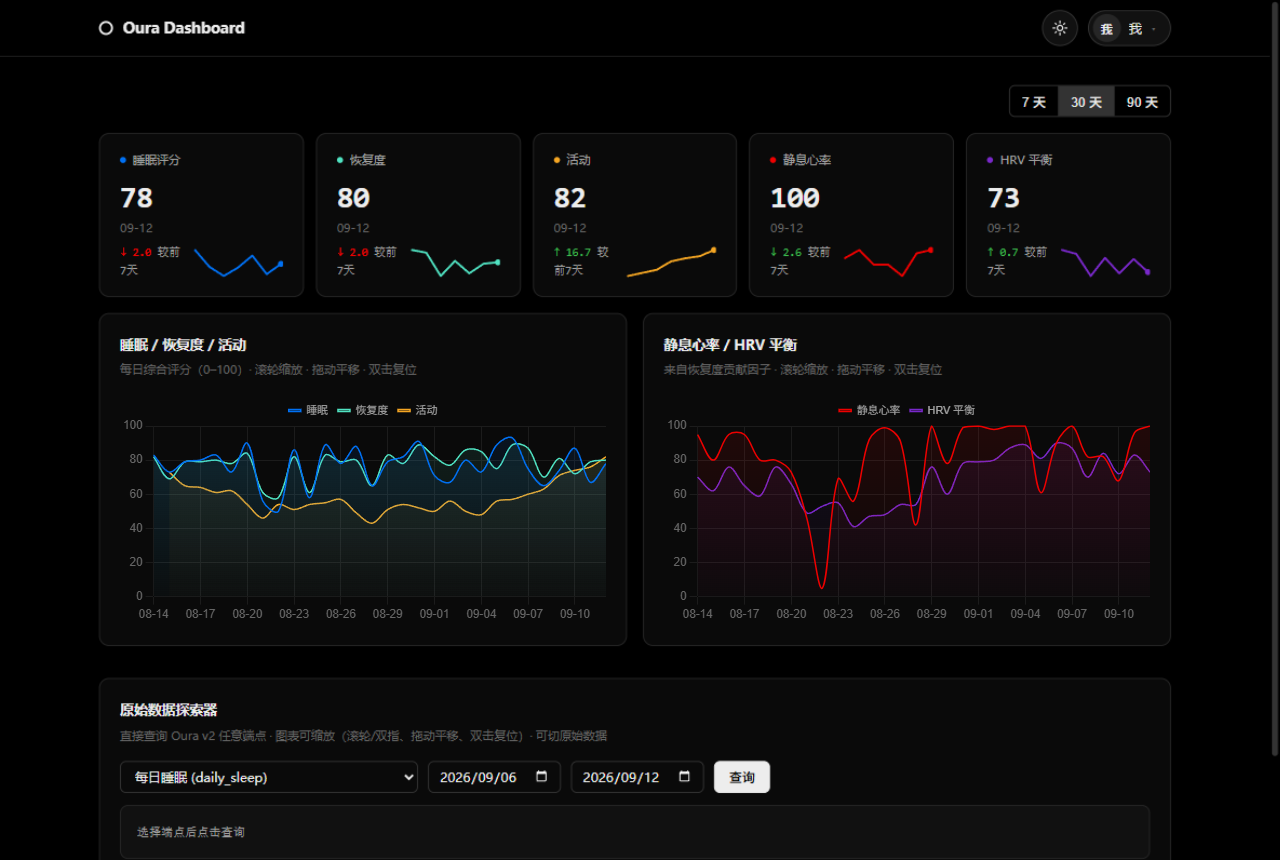
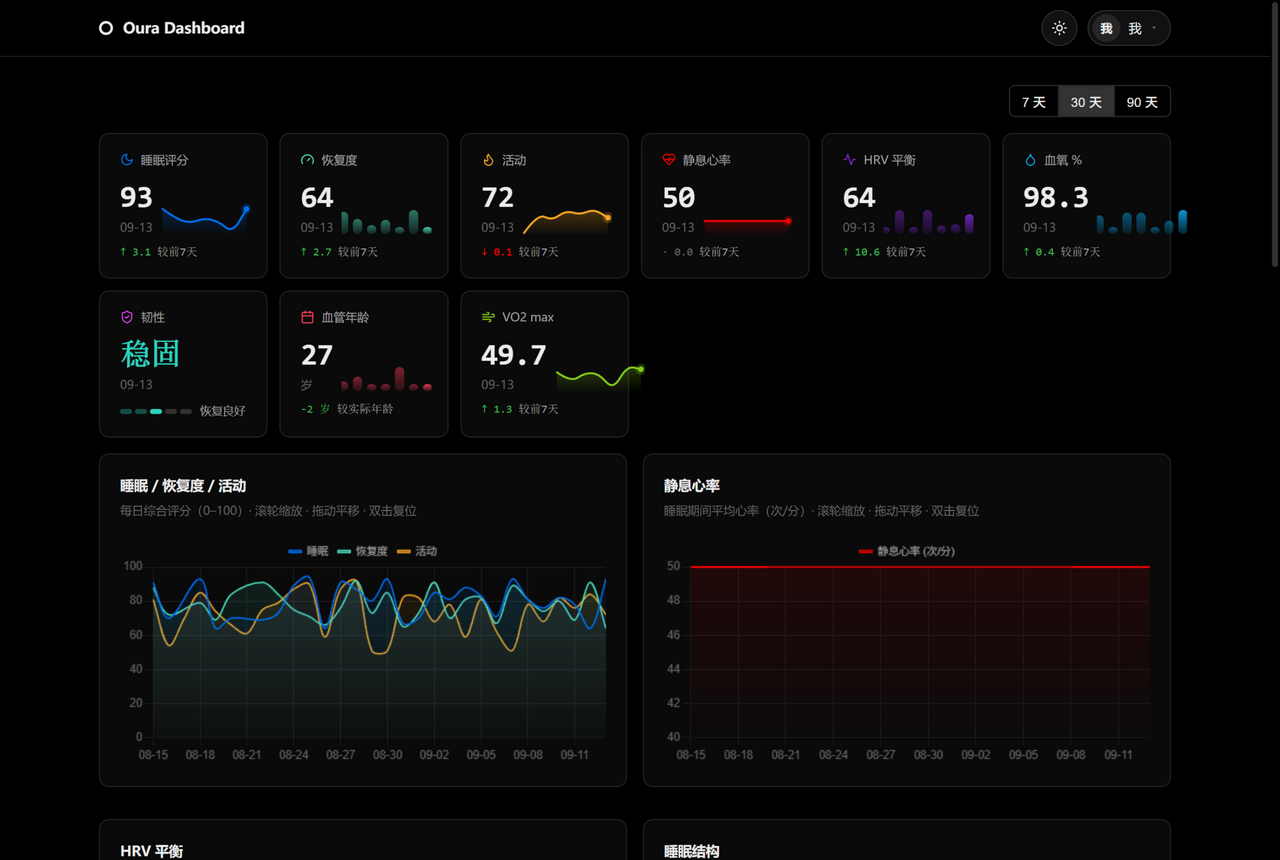
Docs: refresh README with new dashboard screenshots and feature tour
- new screenshots: desktop dark/light with 9 metric cards + dual-style
  sparklines, close-up of sleep structure/hypnogram/stress charts, mobile home
- add 看板一览 section: metric cards, per-chart interaction table, mobile notes
- summary API row documents all merged fields + profile.age
- FAQ row for the spo2/stress/heart_health re-auth requirement

diff --git a/README.md b/README.md
@@ -19,21 +19,45 @@
 
 ---
 
-| 深色 · 桌面 | 浅色 · 桌面 | 移动端 |
-| --- | --- | --- |
-| ![桌面深色](docs/screenshot-desktop-dark.png) | ![桌面浅色](docs/screenshot-desktop-light.png) | ![移动端](docs/screenshot-mobile.png) |
+| 深色 · 桌面 | 浅色 · 桌面 |
+| --- | --- |
+| ![桌面深色](docs/screenshot-desktop-dark.png) | ![桌面浅色](docs/screenshot-desktop-light.png) |
+| ![睡眠图表](docs/screenshot-charts-dark.png) | ![移动端](docs/screenshot-mobile.png) |
+| *睡眠结构 · 眠动图 · 压力与恢复* | *移动端 · 圆环 + 指标卡* |
 
 ## ✨ 功能
 
 - **多用户 OAuth2 接入** —— 每个用户通过授权链接接入，数据按 Oura 用户 id 隔离；token 自动刷新（Oura refresh_token 轮换也会正确落库）
 - **数据读取 API** —— 代理 Oura v2 全部 18 个数据端点，带 KV 缓存、分页、限流透传
-- **数据看板** —— 深色/浅色双主题；桌面端 9 张指标卡（评分/静息心率/HRV/血氧/韧性/血管年龄/VO2 max，迷你趋势线 + 环比箭头）+ 交互式图表（缩放/平移/十字准线）：综合评分、静息心率、HRV、**睡眠结构堆叠图（点击切换眠动图）、5 分钟眠动图、压力/恢复双向柱、睡眠节奏窗口图**、最近锻炼列表；移动端为原生 App 式交互（圆形指标环、指标卡、圆角柱状图、底部导航、骨架屏）
-- **MCP 服务器** —— 无状态 Streamable HTTP，4 个工具（`list_users` / `get_today_overview` / `get_daily_summary` / `get_oura_data`），支持按 email / 备注名定位用户；summary 工具附带睡眠结构/压力/血氧/韧性/血管年龄/VO2 max 等扩展字段
+- **数据看板** —— 深色/浅色双主题、移动端自适应，详见下方[看板一览](#-看板一览)
+- **MCP 服务器** —— 无状态 Streamable HTTP，4 个工具（`list_users` / `get_today_overview` / `get_daily_summary` / `get_oura_data`），支持按 email / 备注名定位用户；summary 工具附带睡眠结构、眠动图、压力、血氧、韧性、血管年龄、VO2 max 等扩展字段
 - **权限隔离** —— 每个用户可生成独立数据 Key，只能查询自己的数据
 - **定时任务** —— 每小时自动保活 token 并预取昨日+今日概览，看板秒开
 - **Webhook**（可选）—— 接收 Oura 数据更新推送（HMAC-SHA256 校验）
 
 > **2026-09 起 Oura 调整了 OAuth scope**：血氧为 `spo2`（原 `spo2Daily` 失效），韧性需要 `stress`，心血管年龄需要 `heart_health`。本仓库默认 scope 已更新；**此前接入的用户需要重新走一次授权**才能点亮这三类新数据，未重新授权时看板对应卡片显示「—」，其余功能不受影响。
+
+## 📊 看板一览
+
+**指标卡（9 张）**：睡眠评分 · 恢复度 · 活动 · 静息心率 · HRV 平衡 · 血氧 · 韧性 · 血管年龄 · VO2 max
+每张卡带专属图标、7 天迷你趋势（趋势型用折线+渐变面积，评分型用圆头渐变柱）与「较前 7 天」环比箭头；韧性以 5 段等级条展示当前等级（有限→卓越），血管年龄直接对比实际年龄。
+
+**交互式图表**（滚轮/双指缩放 · 拖动平移 · 双击复位 · 十字准线）：
+
+| 图表 | 看什么 | 特色交互 |
+| --- | --- | --- |
+| 睡眠 / 恢复度 / 活动 | 三大综合评分走势 | 多序列同图对比 |
+| 静息心率 | 睡眠期间平均心率（与 Oura App 口径一致） | — |
+| HRV 平衡 | 恢复度贡献因子 | — |
+| 睡眠结构 | 深睡 / REM / 浅睡 / 清醒时长堆叠 | **点击柱子切换下方眠动图到那一晚** |
+| 眠动图 | 单晚 5 分钟分辨率睡眠分期瀑布图 | 入睡/醒来、总睡眠、效率、平均 HRV 摘要行 |
+| 压力与恢复 | 高压力（上）vs 恢复（下）时长 | tooltip 带当日总结（已恢复/正常/高压日） |
+| 睡眠节奏 | 每晚入睡→醒来窗口 | 正午→正午时间轴，一眼看出作息规律 |
+| 最近锻炼 | 类型 / 强度 / 时长 / 消耗 / 距离 | 强度圆点着色 |
+
+移动端为原生 App 式交互：横向滚动的 9 个圆形指标环、可展开的指标卡（含等级分布、彩色柱状趋势）、底部三栏导航（摘要 / 趋势 / 探索）、骨架屏。
+
+另有**原始数据探索器**：直接查询 Oura v2 任意端点，自动识别数值字段绘图，可切原始 JSON。
 
 ## 🚀 快速开始
 
@@ -152,7 +176,7 @@ claude mcp add --transport http oura https://oura-service.<你的子域>.workers
 | --- | --- | --- |
 | GET | `/api/users` | 已接入用户列表 |
 | POST | `/api/sync/:userId?days=30` | 立即拉取近 N 天概览数据入缓存 |
-| GET | `/api/data/:userId/summary?days=30` | 聚合的每日睡眠/恢复度/活动/静息心率（睡眠期间平均 BPM）/HRV |
+| GET | `/api/data/:userId/summary?days=30` | 聚合每日概览：评分/静息心率/HRV + 睡眠结构（deep/rem/light/awake 秒）、眠动图（hypno）、就寝窗口、压力/恢复时长、血氧、韧性等级、血管年龄、VO2 max 及 `profile.age` |
 | GET | `/api/data/:userId/:endpoint` | 代理 Oura 端点，支持 `start_date`、`end_date`、`next_token` |
 | POST | `/api/connections/:id/disconnect` | 断开用户并清除缓存（管理员） |
 | POST | `/api/connections/:id/alias` | 设置用户备注名，MCP 可用 alias 定位（管理员） |
@@ -205,6 +229,7 @@ src/
 | Oura 授权页报 `400 invalid_request` | Redirect URI 与实际回调地址不一致，去 Oura 开发者后台核对 |
 | 看板提示「personal_info 未返回用户 id」 | 升级到最新代码（旧版本解析 bug），或确认授权未撤销 |
 | `401 unauthorized` | ADMIN_KEY 不对，或 Header 不是「Bearer 密钥」格式 |
+| 血氧 / 韧性 / 血管年龄卡片显示「—」 | 这三类需要 2026-09 的新 scope，重新走一次 `/auth/oura` 授权即可 |
 | 数据一直为空 | 先完成 `/auth/oura` 授权；Oura 数据需戒指同步后才有 |
 | 国内访问 workers.dev 受阻 | 给 Worker 绑定自定义域名，并把 Oura 后台回调地址同步更新 |
 
